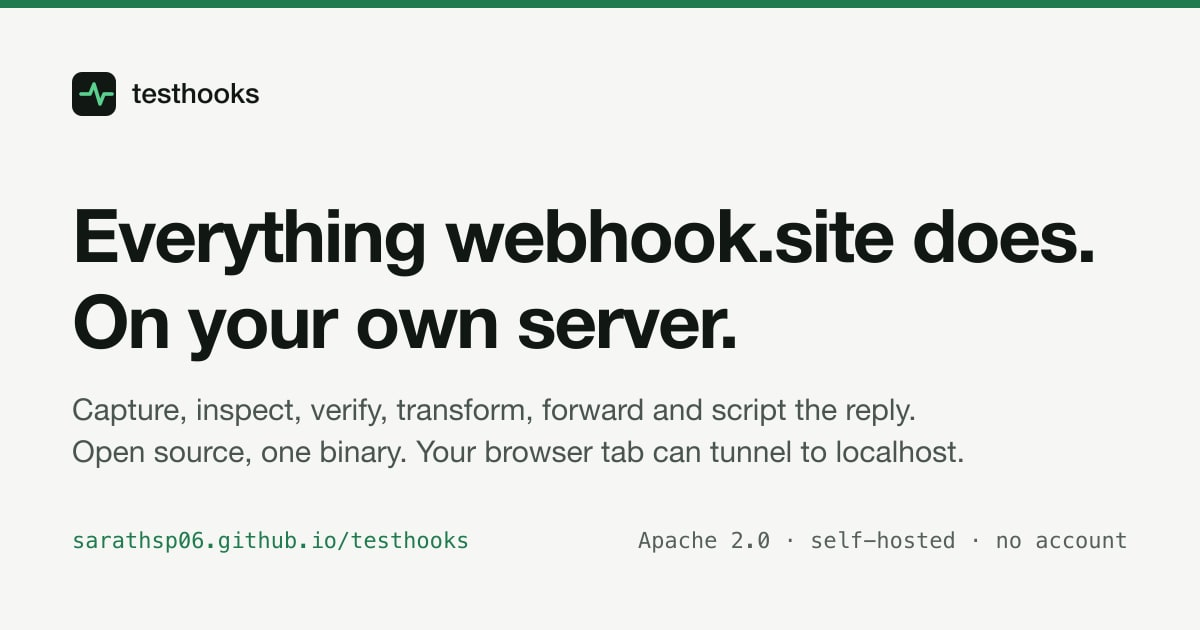
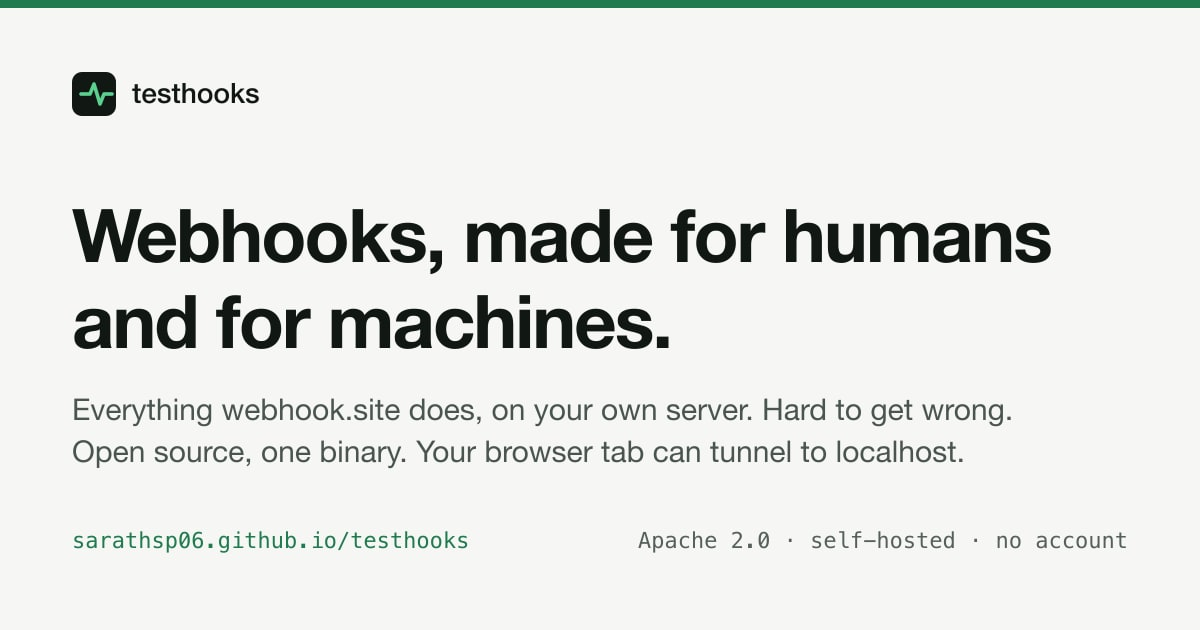
docs: "made for humans, and for machines" tagline and AGENTS.md principles
Add AGENTS.md: the tagline and the ten rules every change keeps (plain
words, safe defaults, preview before save, visible failures, same
behaviour in both modes, every UI action is an API call, one binary, docs
ship with the change, no surprises for the sender) plus a pre-PR check.

Landing page: H1 is the tagline; the overview answers "webhook.site has
been here ten years, so why look?" with three one-click things to try on
the demo. Features heading splits the humans/machines promise. README
leads with the tagline and links AGENTS.md. Social card re-rendered.

Changed region(s): [[0.0617, 0.3317, 0.925, 0.573], [0.0617, 0.6333, 0.8325, 0.6937]]

diff --git a/AGENTS.md b/AGENTS.md
@@ -1,0 +1,59 @@
+# Testhooks: made for humans, and for machines
+
+This file is for anyone changing Testhooks, person or agent. It says what the
+product is for and the rules every change has to keep. Build and test commands,
+layout and architecture are in [CONTRIBUTING.md](CONTRIBUTING.md).
+
+## The tagline, and what it commits us to
+
+**Made for humans, and for machines.** A person gets a webhook URL in one click
+and understands every screen without reading docs. A script or an agent gets the
+same thing through the REST API and WebSocket, with the same words and the same
+defaults. Nothing is UI-only, and nothing is API-only.
+
+**Hard to get wrong.** Testhooks sits between a provider and someone's code, so a
+mistake here looks like a bug somewhere else. The product follows the principle
+of least astonishment: the obvious action is the safe one, and the result of any
+action is the one its label promised.
+
+## Rules for every change
+
+1. **Plain words, the user's words.** Labels say what happens, not how it is
+   implemented. "Reply to the sender with my app's response", not "sync
+   forward mode". No jargon a first-time user has to look up; where a technical
+   term is unavoidable (CORS, HMAC), say what to do about it in the same sentence.
+2. **Safe defaults.** A new endpoint captures and does nothing else. Forwarding
+   is off until a URL is set. Scripts do not run until saved. Signature
+   enforcement is off until asked for. Secrets are write-only once stored.
+3. **Nothing changes until it is saved, and you can see it before you save.**
+   The script editor tries a transform or reply on real captured traffic and
+   shows a diff and "what the sender gets" before Save. Any new feature that
+   alters what reaches a sender or a target gets the same preview.
+4. **Destructive actions confirm; everything else does not.** Deleting an
+   endpoint or a script asks once. Saving settings, replaying a request or
+   switching modes never pops a dialog.
+5. **Failures are visible and named.** A forward that failed, a script that
+   threw, a signature that did not verify: each shows on the request with the
+   reason, and the sender gets a correct status (502 for a dead target, 401 for
+   a bad signature when enforcing), never a silent 200.
+6. **The same behaviour in both modes.** Server mode and browser mode run the
+   same pipeline (capture, transform, forward, reply) with the same config
+   fields. A setting that only works in one mode says so where it is set.
+7. **Every UI action is an API call.** If a screen can do it, `curl` can do it
+   with the fields documented in the REST API reference. New config lives in
+   the endpoint `config` object and is documented the day it ships.
+8. **One binary, zero required dependencies to try it.** `testhooks` runs in
+   memory with the UI embedded. PostgreSQL is for keeping data, not for starting.
+9. **Docs are part of the change.** A behaviour change ships with its guide and
+   reference updated in the same commit. The docs use the same words as the UI.
+10. **No surprises for the sender.** Captured requests are forwarded byte for
+    byte unless a transform says otherwise. Hop-by-hop and security-sensitive
+    headers are stripped; everything else passes through untouched.
+
+## Before you open a pull request
+
+- Can a first-time user predict what each new label does? If not, rename it.
+- Does the API expose it, and does `docs/src/content/docs/reference/api.md` say so?
+- Does the user see the result before it takes effect, when it affects a sender or target?
+- Is the failure path visible, with a status code a real receiver would send?
+- Do `go test ./...`, `npm run check` and both builds pass?

diff --git a/README.md b/README.md
@@ -5,8 +5,8 @@
 </p>
 
 <p align="center">
-  <strong>A self-hostable <a href="https://webhook.site">webhook.site</a>. When your handler runs on localhost, your browser tab is the tunnel.</strong><br/>
-  Capture, inspect, transform, forward and mock webhooks. One binary with the UI built in.
+  <strong>Webhooks, made for humans and for machines.</strong><br/>
+  A self-hostable <a href="https://webhook.site">webhook.site</a>: capture, inspect, verify, transform, forward and mock webhooks, one click or one curl. When your handler runs on localhost, your browser tab is the tunnel. One binary with the UI built in. See <a href="AGENTS.md">AGENTS.md</a> for the principles behind it.
 </p>
 
 <p align="center">
